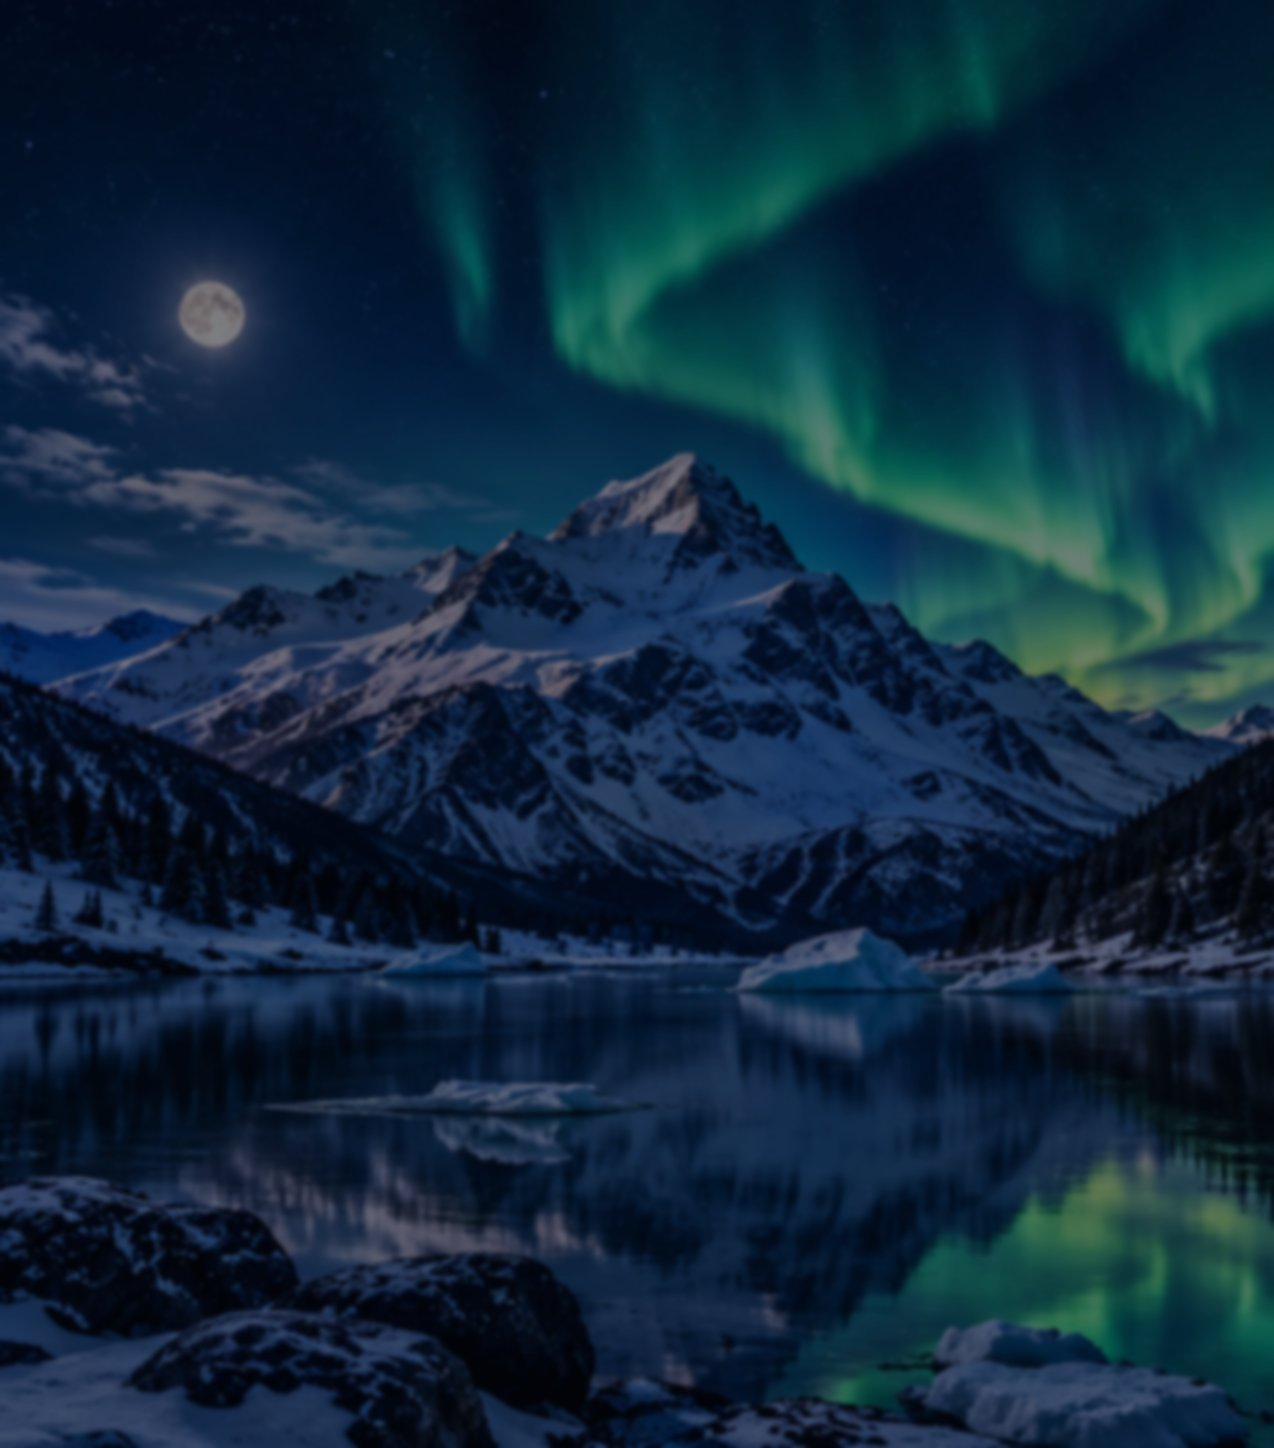
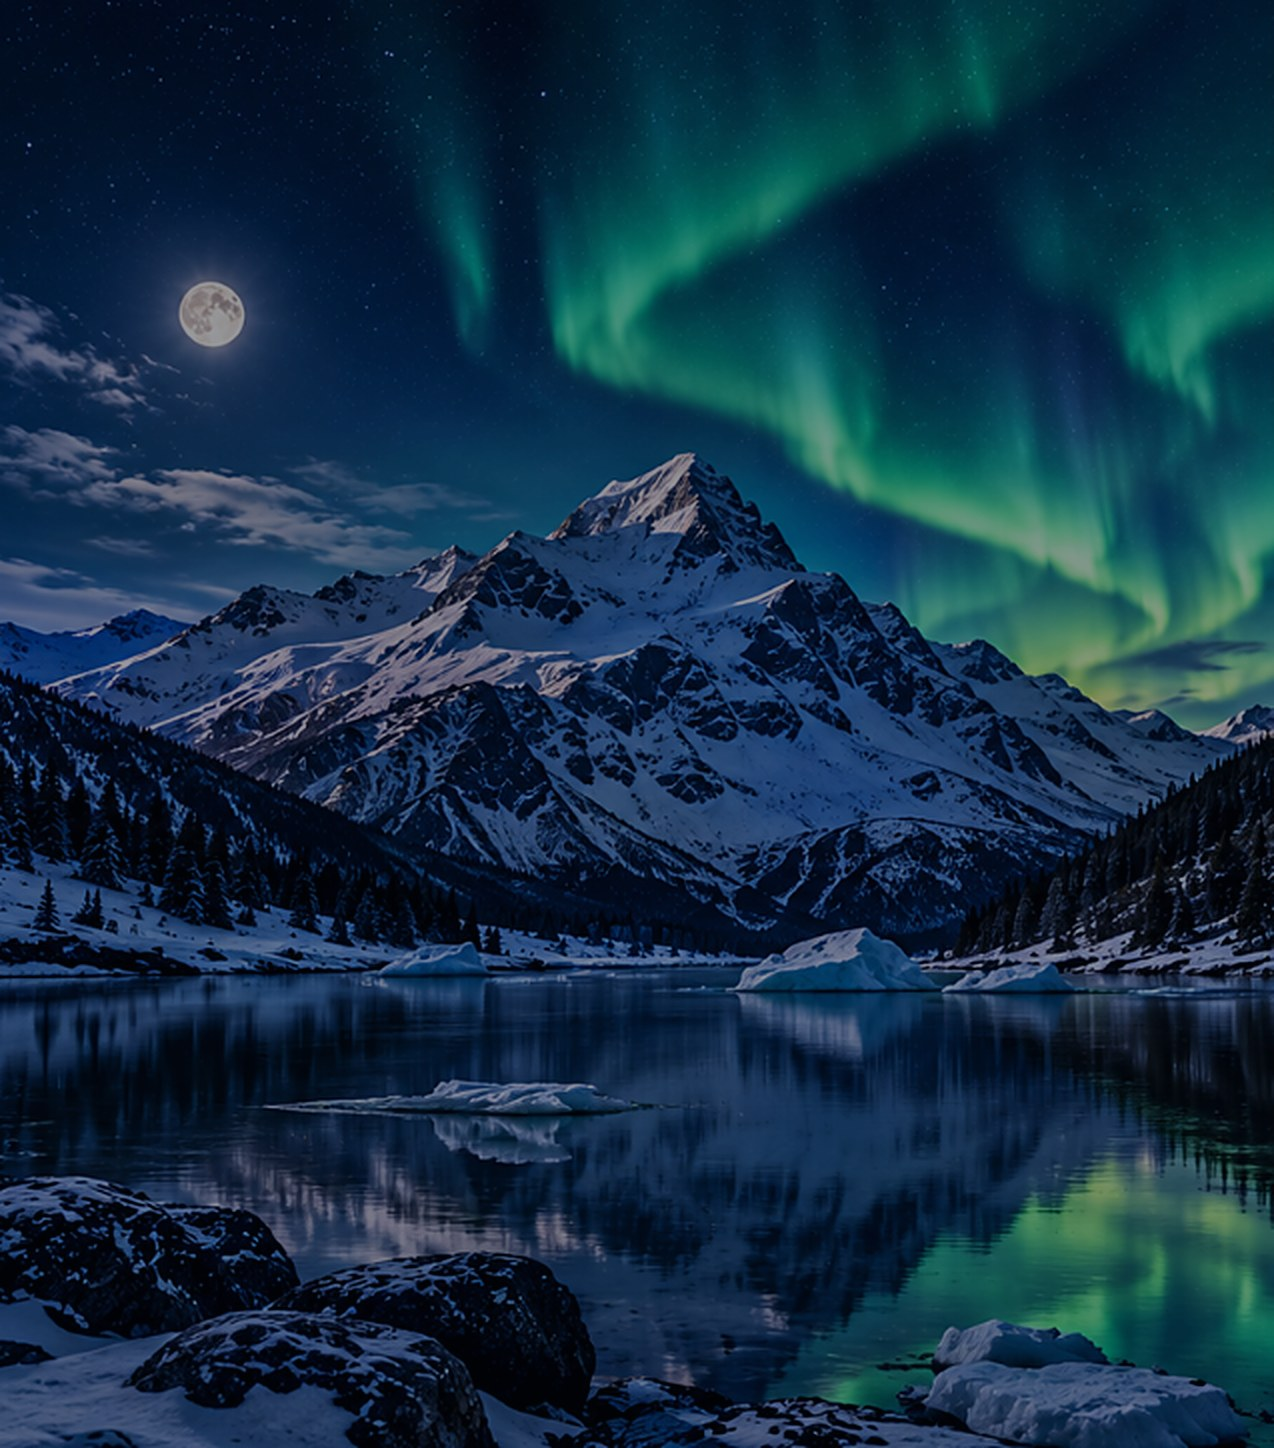
Simulatore: portate le modifiche della chat Simulatore (blocco 'Rischio troppo elevato' oltre la perdita massima del 66%, sfondo nitido)
Mantenuti anteprima WhatsApp/Telegram, stella con lampo, logo grande e link carraro18.github.io/AURORA.

Claude-Session: https://claude.ai/code/session_01TyeXhoJ5FPywpT7HAkeabq

diff --git a/index.html b/index.html
@@ -245,14 +245,16 @@ function histDD(rp){
   for(const d of days){let k=rp/100*(S.has(d.i)?0.5:1);eq*=1+d.r.reduce((a,b)=>a+b,0)*k;if(eq<=0)return 1;if(eq>pk)pk=eq;const dd=1-eq/pk;if(dd>mdd)mdd=dd;}
   return mdd;
 }
-const MARGIN=1.5;
+const MARGIN=1.5, TOLMAX=66;
+function riskForTol(t){const target=t/100/MARGIN; let lo=0.001,hi=10;
+  for(let k=0;k<40;k++){const m=(lo+hi)/2; if(histDD(m)>target)hi=m; else lo=m;}
+  return Math.max(Math.round(lo*100)/100,0.01);}
+let _rmax=null; const RMAX=()=>_rmax??(_rmax=riskForTol(TOLMAX)); // rischio massimo a trade (%) ammesso
 function fromTol(){
   const t=+$('tol').value, o=$('tolOut'), c=+capEl.value;
   if(!(t>0)){o.innerHTML='';return false;}
   if(t>66){o.innerHTML='<div class="err">Rischio troppo elevato per il capitale indicato: il massimo è 66%.</div>';return false;}
-  const target=t/100/MARGIN; let lo=0.001,hi=10;
-  for(let k=0;k<40;k++){const m=(lo+hi)/2; if(histDD(m)>target)hi=m; else lo=m;}
-  const rp=Math.max(Math.round(lo*100)/100,0.01), hd=histDD(rp)*100;
+  const rp=riskForTol(t), hd=histDD(rp)*100;
   riskEl.value = mode==='pct' ? rp : Math.round(c*rp/100*100)/100;
   o.innerHTML='<div class="hint">Rischio a trade calcolato: '+pct(rp,2)+(c>0?' = '+eur(c*rp/100,c*rp/100<100?2:0):'')+'</div><div class="sub">Nel periodo peggiore della storia avresti perso il '+pct(hd,0)+': resta un margine di sicurezza, perché il futuro può essere peggio del passato.</div>';
   return true;
@@ -309,6 +311,14 @@ function run(){
   let a=+y1.value,b=+y2.value; if(b<a){[a,b]=[b,a];}
   const o={cap:+capEl.value,mode,risk:+riskEl.value,y1:a,y2:b,tax:+taxEl.value||0};
   if(!(o.cap>0&&o.risk>0))return;
+  const tol=+$('tol').value, rp=o.mode==='pct'?o.risk:o.risk/o.cap*100, rm=RMAX();
+  if(tol>TOLMAX||rp>rm+0.0001){
+    if(chart){chart.destroy();chart=null;}
+    const maxE=o.cap*rm/100;
+    $('riskHint').innerHTML='<span class="err" style="margin:0">Rischio troppo elevato per il capitale indicato</span>';
+    $('out').innerHTML=`<div class="card warn" style="font-size:15px;line-height:1.5"><b>⛔ Rischio troppo elevato per il capitale indicato.</b><br>Con ${eur(o.cap)} di capitale il rischio massimo a trade è <b>${eur(maxE,maxE<100?2:0)} (${pct(rm,2)})</b>, che corrisponde alla perdita massima accettabile del ${TOLMAX}%.<br>Hai inserito ${o.mode==='pct'?pct(rp,2)+' = '+eur(o.cap*rp/100,0):eur(o.risk,0)+' = '+pct(rp,2)} a trade: abbassa il rischio per vedere la simulazione.</div>`;
+    return;
+  }
   let days=DAYS.filter(d=>d.y>=a&&d.y<=b), excluded=[];
   if(dropBest){
     const ys={};days.forEach(d=>{ys[d.y]=(ys[d.y]||0)+d.r.reduce((x,y)=>x+y,0)});
